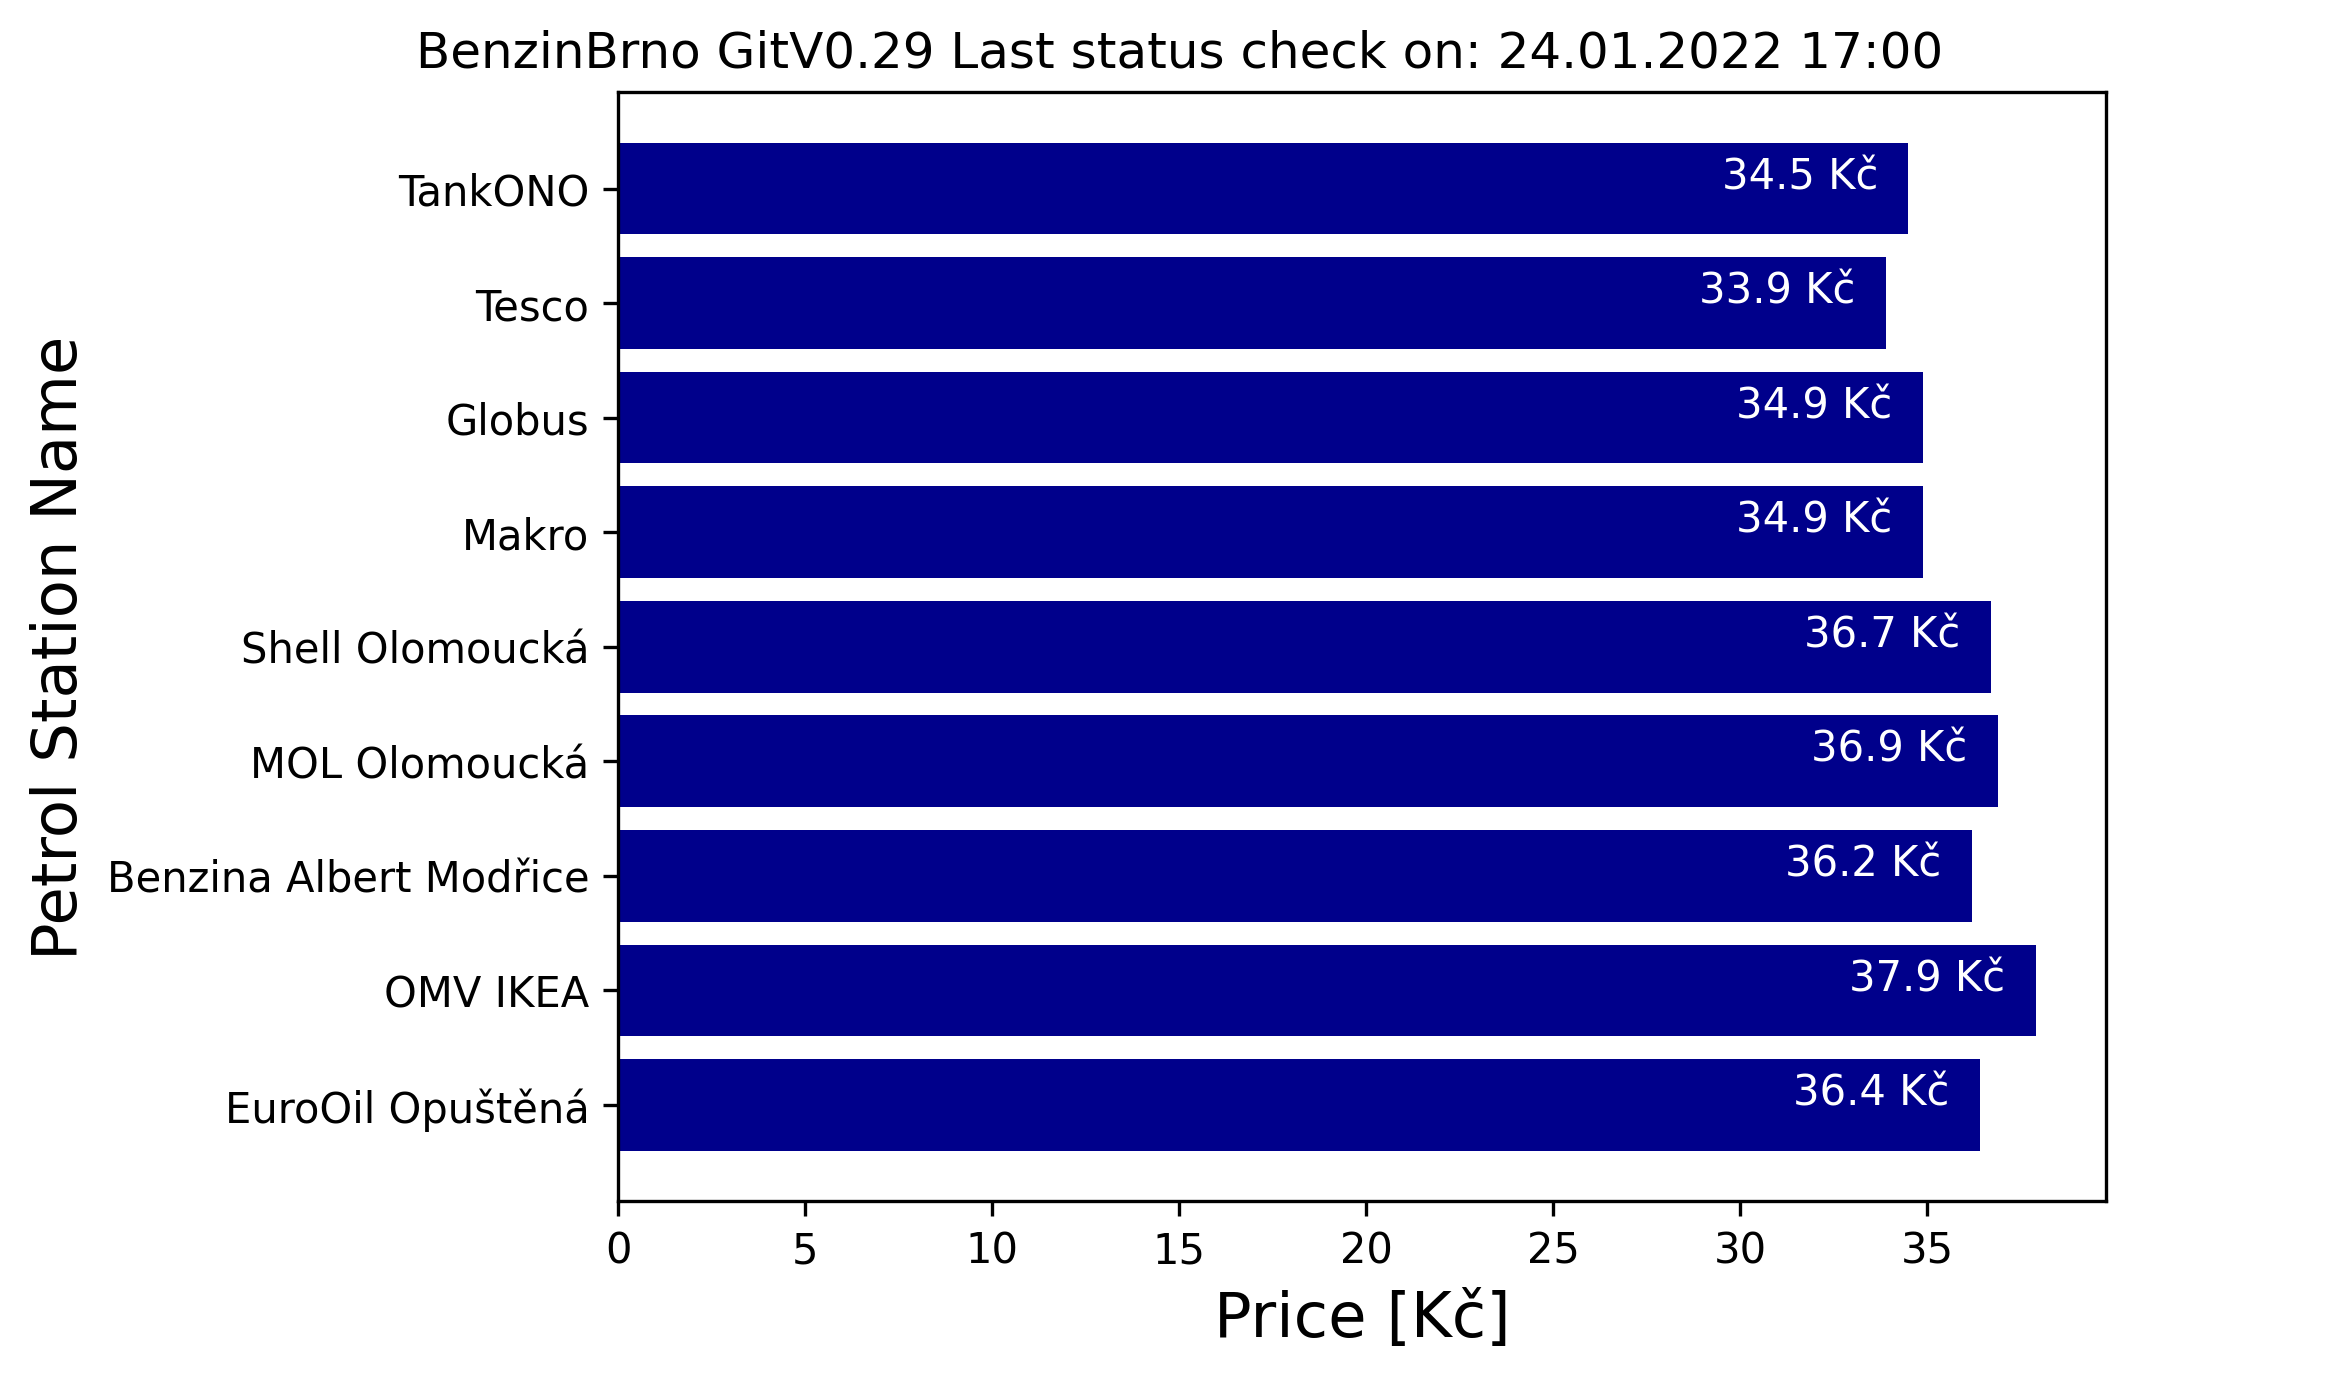
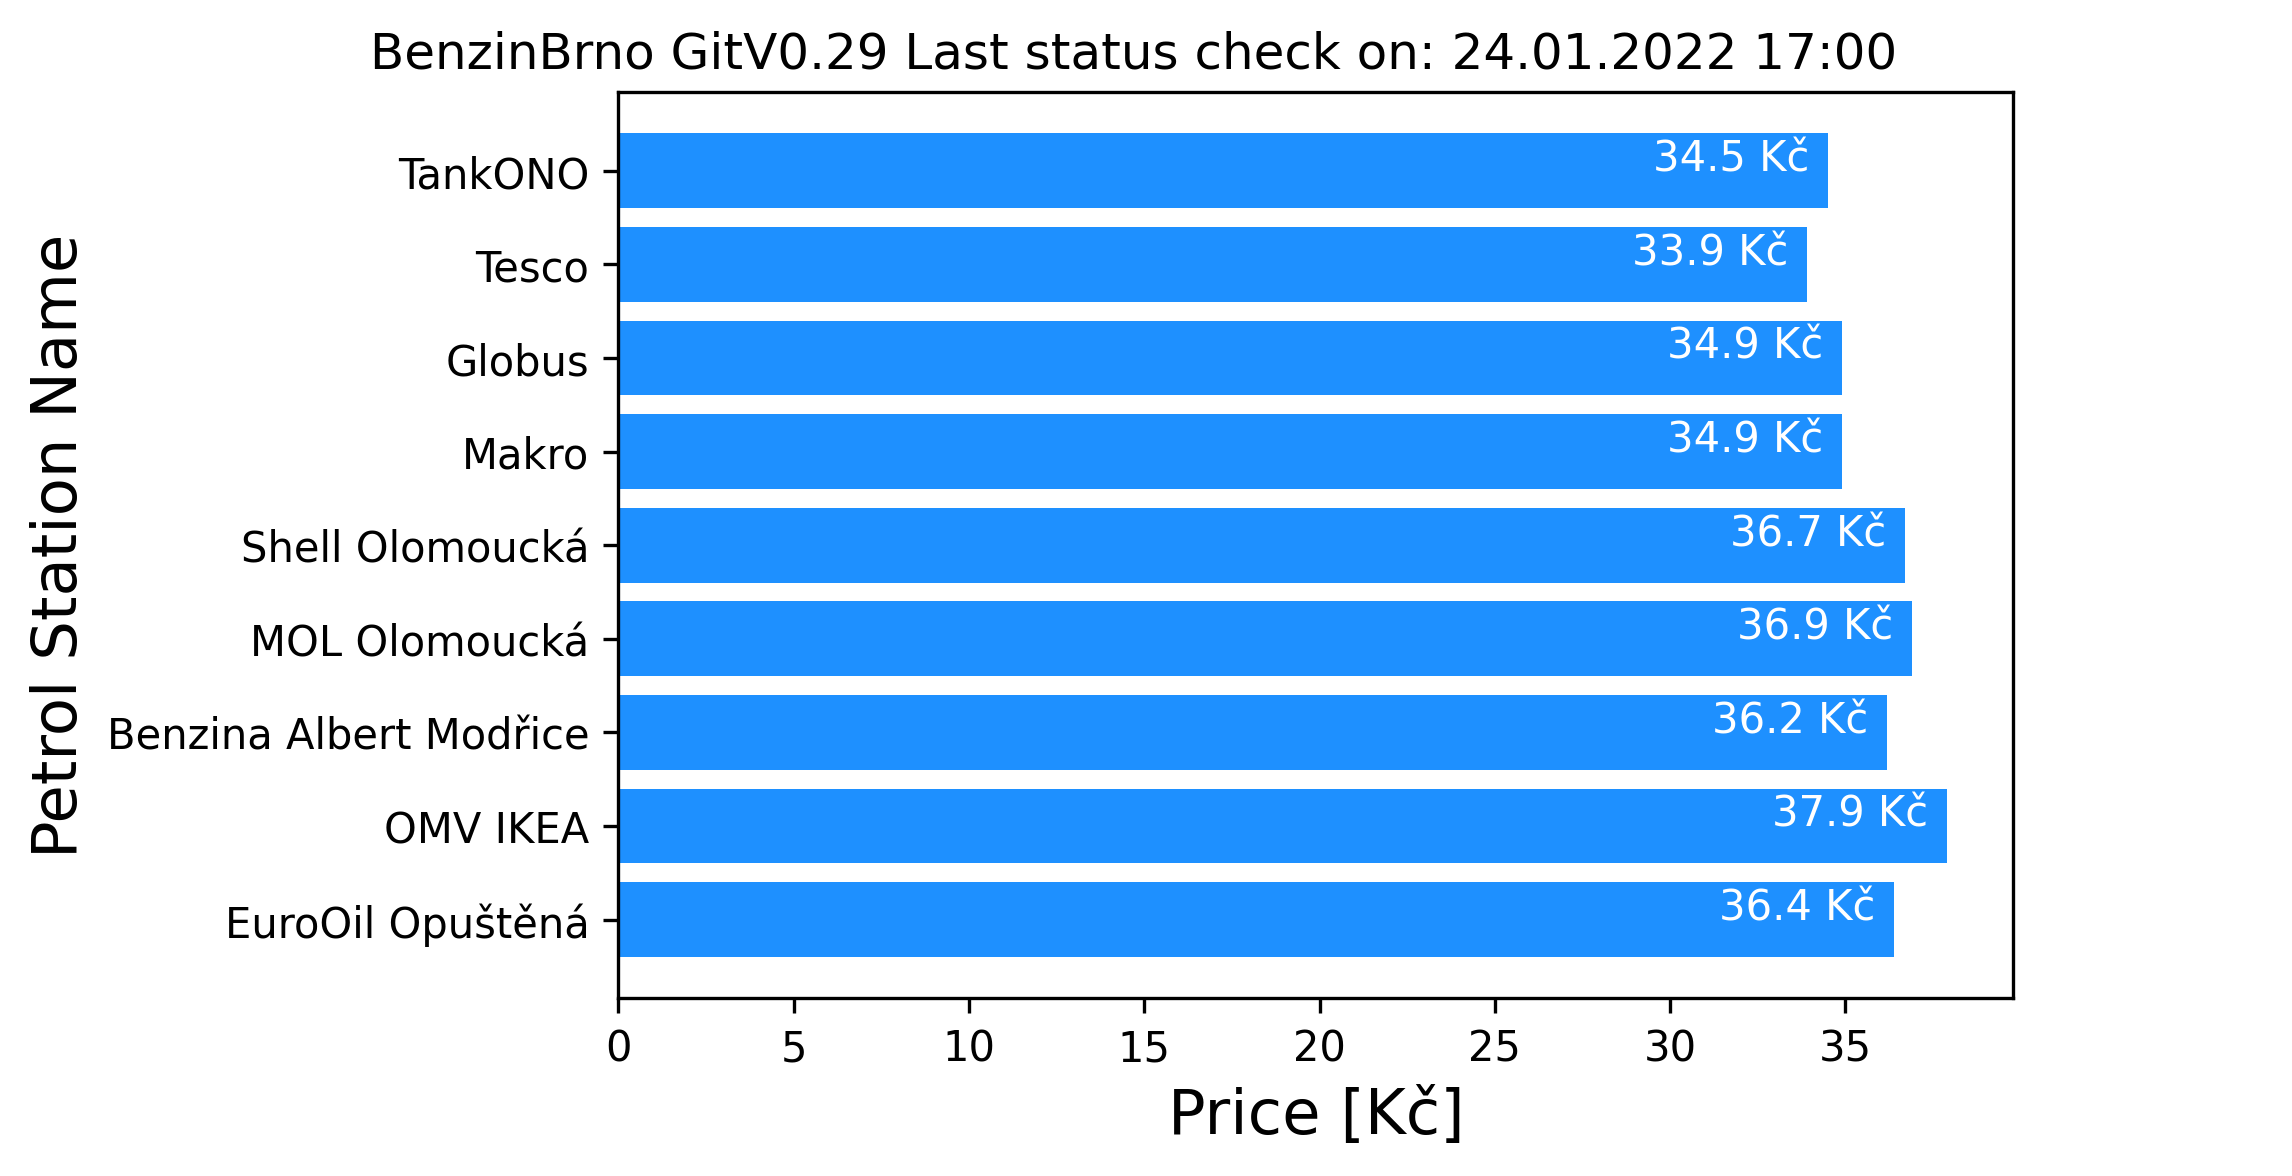
0.30

diff --git a/bbGraf.py b/bbGraf.py
@@ -18,7 +18,7 @@ def Graf():
   # Matplotlib Bars - w3 https://bit.ly/3u9WR6H
   # x = np.array(["A", "B", "C", "D"])
   # y = np.array([13.6, 18.1, 10.9, 10.1])
-  plt.barh(x, y, color="DarkBlue")
+  plt.barh(x, y, color="DodgerBlue")
   # displaying the title
   LastChech = str(list(df)[-1:][0])
   tit = bbNmBB + bbNmVE + ' ' + LastChech + '                       '

diff --git a/bbCFG.py b/bbCFG.py
@@ -3,7 +3,7 @@
 
 # Globalni promenne
 bbNmBB = 'BenzinBrno '
-bbNmVR = 0.29
+bbNmVR = 0.30
 # bbNmVE = 'v' + str(bbNmVR).format()
 bbNmVE = 'GitV' + '{:.2f}'.format(bbNmVR)
 bbNmDE = ' - Natural 95 prices in Brno - Python Version'
